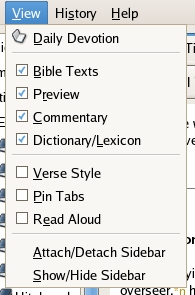
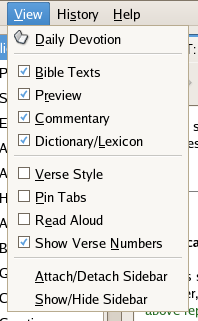
feature request #1194037: Show Verse Numbers.
git-svn-id: http://svn.code.sf.net/p/gnomesword/code/trunk@1263 da23c209-522a-4b7c-92e9-24af42be4764

Changed region(s): [[0.0, 0.0, 1.0, 1.0]]

diff --git a/gnomesword/src/gnome2/main_menu.c b/gnomesword/src/gnome2/main_menu.c
@@ -309,6 +309,31 @@ static void on_read_aloud_activate(GtkCheckMenuItem * menuitem,
 
 /******************************************************************************
  * Name
+ *  on_show_verse_numbers_activate
+ *
+ * Synopsis
+ *   #include "gui/main_menu.h"
+ *
+ *   void on_show_verse_numbers_activate(GtkMenuItem *menuitem, gpointer user_data)	
+ *
+ * Description
+ *   toggle showing verse numbers together.
+ *
+ * Return value
+ *   void
+ */
+
+static void on_show_verse_numbers_activate(GtkCheckMenuItem * menuitem,
+					   gpointer user_data)
+{
+	settings.showversenum = menuitem->active;
+	xml_set_value("GnomeSword", "misc", "showversenum",
+		      (settings.showversenum ? "1" : "0"));
+	main_display_bible(NULL, settings.currentverse);
+}
+
+/******************************************************************************
+ * Name
  *  on_exit_activate
  *
  * Synopsis
@@ -776,6 +801,12 @@ static GnomeUIInfo view1_menu_uiinfo[] = {
 	 NULL, NULL, NULL,
 	 GNOME_APP_PIXMAP_NONE, NULL,
 	 0, (GdkModifierType) 0, NULL},
+	{
+	 GNOME_APP_UI_TOGGLEITEM, N_("Show Verse _Numbers"),
+	 NULL,
+	 NULL, NULL, NULL,
+	 GNOME_APP_PIXMAP_NONE, NULL,
+	 0, (GdkModifierType) 0, NULL},
 	GNOMEUIINFO_SEPARATOR,
 	{
 	 GNOME_APP_UI_ITEM, N_("_Attach/Detach Sidebar"),
@@ -884,6 +915,7 @@ void gui_create_main_menu(GtkWidget * app)
 	widgets.versestyle_item = view1_menu_uiinfo[7].widget;
 	widgets.pinnedtabs_item = view1_menu_uiinfo[8].widget;
 	widgets.readaloud_item = view1_menu_uiinfo[9].widget;
+	widgets.showversenum_item = view1_menu_uiinfo[10].widget;
 	gtk_check_menu_item_set_active(GTK_CHECK_MENU_ITEM
 				       (widgets.versestyle_item),
 				       settings.versestyle);
@@ -893,6 +925,9 @@ void gui_create_main_menu(GtkWidget * app)
 	gtk_check_menu_item_set_active(GTK_CHECK_MENU_ITEM
 				       (widgets.readaloud_item),
 				       settings.readaloud);
+	gtk_check_menu_item_set_active(GTK_CHECK_MENU_ITEM
+				       (widgets.showversenum_item),
+				       settings.showversenum);
 	
 	g_signal_connect(GTK_OBJECT(widgets.versestyle_item),
 			   "toggled",
@@ -905,6 +940,10 @@ void gui_create_main_menu(GtkWidget * app)
 	g_signal_connect(GTK_OBJECT(widgets.readaloud_item),
 			   "toggled",
 			   G_CALLBACK(on_read_aloud_activate),
+			   NULL);
+	g_signal_connect(GTK_OBJECT(widgets.showversenum_item),
+			   "toggled",
+			   G_CALLBACK(on_show_verse_numbers_activate),
 			   NULL);
 }
 

diff --git a/gnomesword/src/main/display.cc b/gnomesword/src/main/display.cc
@@ -205,11 +205,13 @@ void GTKChapDisp::getVerseBefore(SWModule &imodule)
 				     &bytes_read,
 				     &bytes_written,
 				     error);
-		swbuf.appendFormatted("&nbsp; <A HREF=\"sword:///%s\" NAME=\"%d\">"
-				"<font size=\"%s\" color=\"%s\">%d</font></A> ",
+		swbuf.appendFormatted(settings.showversenum
+				? "&nbsp; <A HREF=\"sword:///%s\" NAME=\"%d\">"
+				  "<font size=\"%s\" color=\"%s\">%d</font></A> "
+				: "&nbsp; <A HREF=\"sword:///%s\" NAME=\"%d\"></A>",
 				utf8_key,
 				0, 
-				(settings.versestyle) ?settings.verse_num_font_size :"-2",
+				(settings.versestyle) ? settings.verse_num_font_size : "-2",
 				settings.bible_verse_num_color, 
 				key->Verse());
 		
@@ -274,8 +276,10 @@ void GTKChapDisp::getVerseAfter(SWModule &imodule)
 				     &bytes_read,
 				     &bytes_written,
 				     error);
-		swbuf.appendFormatted("&nbsp; <A HREF=\"sword:///%s\" NAME=\"%d\">"
-				"<font size=\"%s\" color=\"%s\">%d</font></A> ",
+		swbuf.appendFormatted(settings.showversenum
+				? "&nbsp; <A HREF=\"sword:///%s\" NAME=\"%d\">"
+				  "<font size=\"%s\" color=\"%s\">%d</font></A> "
+				: "&nbsp; <A HREF=\"sword:///%s\" NAME=\"%d\"></A>",
 				utf8_key,
 				0, 
 				(settings.versestyle)
@@ -550,9 +554,10 @@ char GTKChapDisp::Display(SWModule &imodule)
                              &bytes_written,
                              error);
 		
-		swbuf.appendFormatted(
-			"&nbsp; <A HREF=\"sword:///%s\" NAME=\"%d\">"
-			"<font size=\"%s\" color=\"%s\">%d</font></A> ",
+		swbuf.appendFormatted(settings.showversenum
+			? "&nbsp; <A HREF=\"sword:///%s\" NAME=\"%d\">"
+			  "<font size=\"%s\" color=\"%s\">%d</font></A> "
+			: "&nbsp; <A HREF=\"sword:///%s\" NAME=\"%d\"></A>",
 			utf8_key,
 			key->Verse(),
 			settings.verse_num_font_size,
@@ -907,9 +912,10 @@ char DialogChapDisp::Display(SWModule &imodule)
 			++x;
 			sprintf(heading,"%d",x);
 		}
-		buf = g_strdup_printf(
-			"&nbsp; <A HREF=\"sword:///%s\" NAME=\"%d\">"
-			"<font size=\"%s\" color=\"%s\">%d</font></A> ",
+		buf = g_strdup_printf(settings.showversenum
+			? "&nbsp; <A HREF=\"sword:///%s\" NAME=\"%d\">"
+			  "<font size=\"%s\" color=\"%s\">%d</font></A> "
+			: "&nbsp; <A HREF=\"sword:///%s\" NAME=\"%d\"></A>",
 			(char*)key->getText(),
 			key->Verse(),
 			settings.verse_num_font_size,

diff --git a/gnomesword/src/gnome2/preferences_dialog.c b/gnomesword/src/gnome2/preferences_dialog.c
@@ -60,6 +60,7 @@ typedef enum {
 	USE_VERSE_STYLE,
 	USE_PINNED_TABS,
 	READ_ALOUD,
+	SHOW_VERSE_NUM,
 	SHOW_SPLASH_SCREEN,
 	SHOW_BIBLE_PANE,
 	SHOW_COMMENTARY_PANE,
@@ -147,6 +148,7 @@ struct _preferences_check_buttons {
 	GtkWidget *use_verse_style;
 	GtkWidget *use_pinned_tabs;
 	GtkWidget *readaloud;
+	GtkWidget *show_verse_num;
 	GtkWidget *show_splash_screen;
 
 	GtkWidget *show_bible_pane;
@@ -689,6 +691,35 @@ void on_checkbutton11_toggled(GtkToggleButton * togglebutton, gpointer user_data
 	gtk_check_menu_item_set_active(GTK_CHECK_MENU_ITEM
 			       (widgets.readaloud_item),
 			       settings.readaloud);
+}
+
+
+/******************************************************************************
+ * Name
+ *   on_checkbutton12_toggled
+ *
+ * Synopsis
+ *   #include "preferences_dialog.h"
+ *
+ *   void on_checkbutton12_toggled(GtkToggleButton * togglebutton, gpointer user_data)
+ *
+ * Description
+ *   
+ *   
+ *
+ * Return value
+ *   void
+ */
+
+void on_checkbutton12_toggled(GtkToggleButton * togglebutton, gpointer user_data)
+{
+	xml_set_value("GnomeSword", "misc", "showversenum",
+		      (togglebutton->active ? "1" : "0"));
+	settings.showversenum = atoi(xml_get_value("misc", "showversenum"));
+	
+	gtk_check_menu_item_set_active(GTK_CHECK_MENU_ITEM
+			       (widgets.showversenum_item),
+			       settings.showversenum);
 }
 
 
@@ -1767,6 +1798,7 @@ static void create_preferences_dialog(void)
 	check_button.use_verse_style = glade_xml_get_widget(gxml, "checkbutton5");
 	check_button.use_pinned_tabs = glade_xml_get_widget(gxml, "checkbutton10");
 	check_button.readaloud = glade_xml_get_widget(gxml, "checkbutton11");
+	check_button.show_verse_num = glade_xml_get_widget(gxml, "checkbutton12");
 	check_button.use_default_dictionary = glade_xml_get_widget(gxml, "checkbutton6");
 	check_button.show_devotion = glade_xml_get_widget(gxml, "checkbutton7");
 	check_button.show_splash_screen = glade_xml_get_widget(gxml, "checkbutton8");

diff --git a/gnomesword/src/gnome2/setup_druid.c b/gnomesword/src/gnome2/setup_druid.c
@@ -53,6 +53,7 @@ struct _settings_druid {
 	GtkWidget *checkbutton_verse_style;
 	GtkWidget *checkbutton_pinned_tabs;
 	GtkWidget *checkbutton_readaloud;
+	GtkWidget *checkbutton_show_verse_num;
 	GtkWidget *checkbutton_text_tabs;
 	GtkWidget *checkbutton_text_window;
 	GtkWidget *checkbutton_comm_tabs;
@@ -208,6 +209,13 @@ static void save_first_run_settings(SETTINGS_DRUID widgets)
 		xml_set_value("GnomeSword", "misc", "readaloud", "1");
 	else
 		xml_set_value("GnomeSword", "misc", "readaloud", "0");
+
+	settings.showversenum =
+	    GTK_TOGGLE_BUTTON(widgets.checkbutton_show_verse_num)->active;
+	if (GTK_TOGGLE_BUTTON(widgets.checkbutton_show_verse_num)->active)
+		xml_set_value("GnomeSword", "misc", "showversenum", "1");
+	else
+		xml_set_value("GnomeSword", "misc", "showversenum", "0");
 
 	settings.showtexts =
 	    GTK_TOGGLE_BUTTON(widgets.checkbutton_text_window)->active;
@@ -656,6 +664,17 @@ static GtkWidget *create_setup_druid(GList * biblemods,
 	gtk_widget_set_size_request(widgets.checkbutton_readaloud, 212, -1);
 	gtk_toggle_button_set_active(GTK_TOGGLE_BUTTON
 				     (widgets.checkbutton_readaloud),
+				     TRUE);
+
+	widgets.checkbutton_show_verse_num =
+	    gtk_check_button_new_with_label(_("Show Verse Numbers"));
+	gtk_widget_show(widgets.checkbutton_show_verse_num);
+	gtk_box_pack_start(GTK_BOX(hbox27),
+			   widgets.checkbutton_show_verse_num, FALSE, TRUE,
+			   0);
+	gtk_widget_set_size_request(widgets.checkbutton_show_verse_num, 212, -1);
+	gtk_toggle_button_set_active(GTK_TOGGLE_BUTTON
+				     (widgets.checkbutton_show_verse_num),
 				     TRUE);
 
 	widgets.checkbutton_text_tabs =

diff --git a/gnomesword/src/main/xml.c b/gnomesword/src/main/xml.c
@@ -578,6 +578,7 @@ int xml_create_settings_file(char *path)
 	xmlNewTextChild(section_node, NULL, (const xmlChar *)"showtexts", (const xmlChar *)"1");
 	xmlNewTextChild(section_node, NULL, (const xmlChar *)"versestyle", (const xmlChar *)"1");
 	xmlNewTextChild(section_node, NULL, (const xmlChar *)"pinnedtabs", (const xmlChar *)"0");
+	xmlNewTextChild(section_node, NULL, (const xmlChar *)"showversenum", (const xmlChar *)"1");
 	xmlNewTextChild(section_node, NULL, (const xmlChar *)"readaloud", (const xmlChar *)"0");
 	xmlNewTextChild(section_node, NULL, (const xmlChar *)"setup_canceled",(const xmlChar *)"0");
 

diff --git a/gnomesword/src/gui/widgets.h b/gnomesword/src/gui/widgets.h
@@ -107,6 +107,7 @@ struct  _app_widgets {
                 *viewdicts_item, /* widget to access toggle menu - for showdicts */
 		*versestyle_item,	/* widget to access toggle menu - for versestyle */
 		*pinnedtabs_item,	/* widget to access toggle menu - for pinnedtabs */
+		*showversenum_item,	/* widget to access toggle menu - for showversenum */
 		*readaloud_item,	/* widget to access toggle menu - for reading out loud */
 		*button_dict_book,      /* main toolbar togglebutton */
 //		*button_parallel_view,  /* main toolbar togglebutton */

diff --git a/gnomesword/src/main/settings.h b/gnomesword/src/main/settings.h
@@ -104,6 +104,7 @@ struct _settings {
 		greekaccentsint, //-- check menu state parallel mods
 	        versestyle, /* use verse style if true or paragraph style if not */
 	        pinnedtabs, /* all tabs are pinned together, moving in concert */
+	        showversenum, /* display verse numbers in text (default on) */
 	        readaloud, /* pass text through (existing) "festival -server" */
 	        parallelpage, /* display parallel page */
 	        autosavepersonalcomments, /* auto save personal notes */

diff --git a/gnomesword/src/main/settings.c b/gnomesword/src/main/settings.c
@@ -490,6 +490,14 @@ void load_settings_structure(void)
 		settings.readaloud = 0;
 	}
 
+	buf = xml_get_value("misc", "showversenum");
+	if (buf)
+		settings.showversenum = atoi(buf);
+	else {
+		xml_add_new_item_to_section("misc", "showversenum", "1");
+		settings.showversenum = 1;
+	}
+
 	settings.usedefault = atoi(xml_get_value("misc", "usedefault"));
 	
 		
